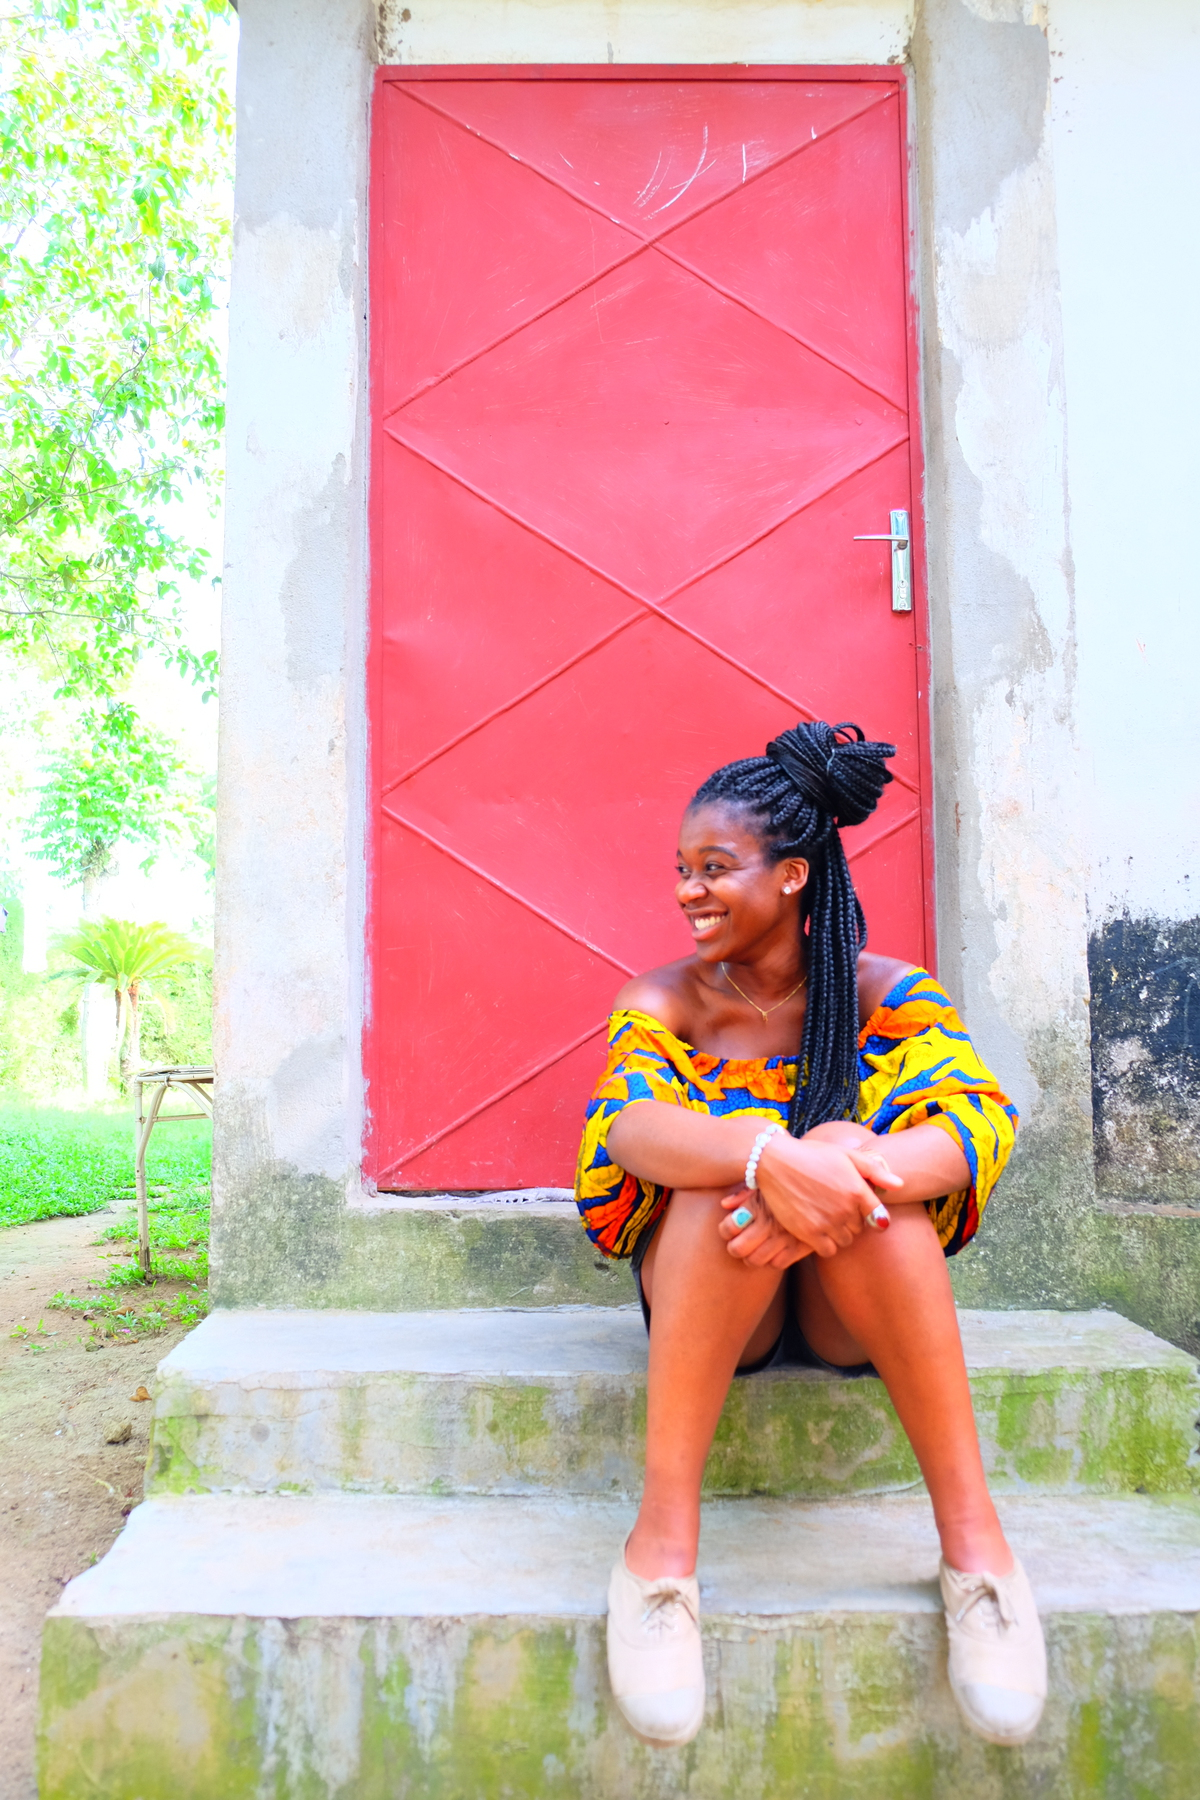
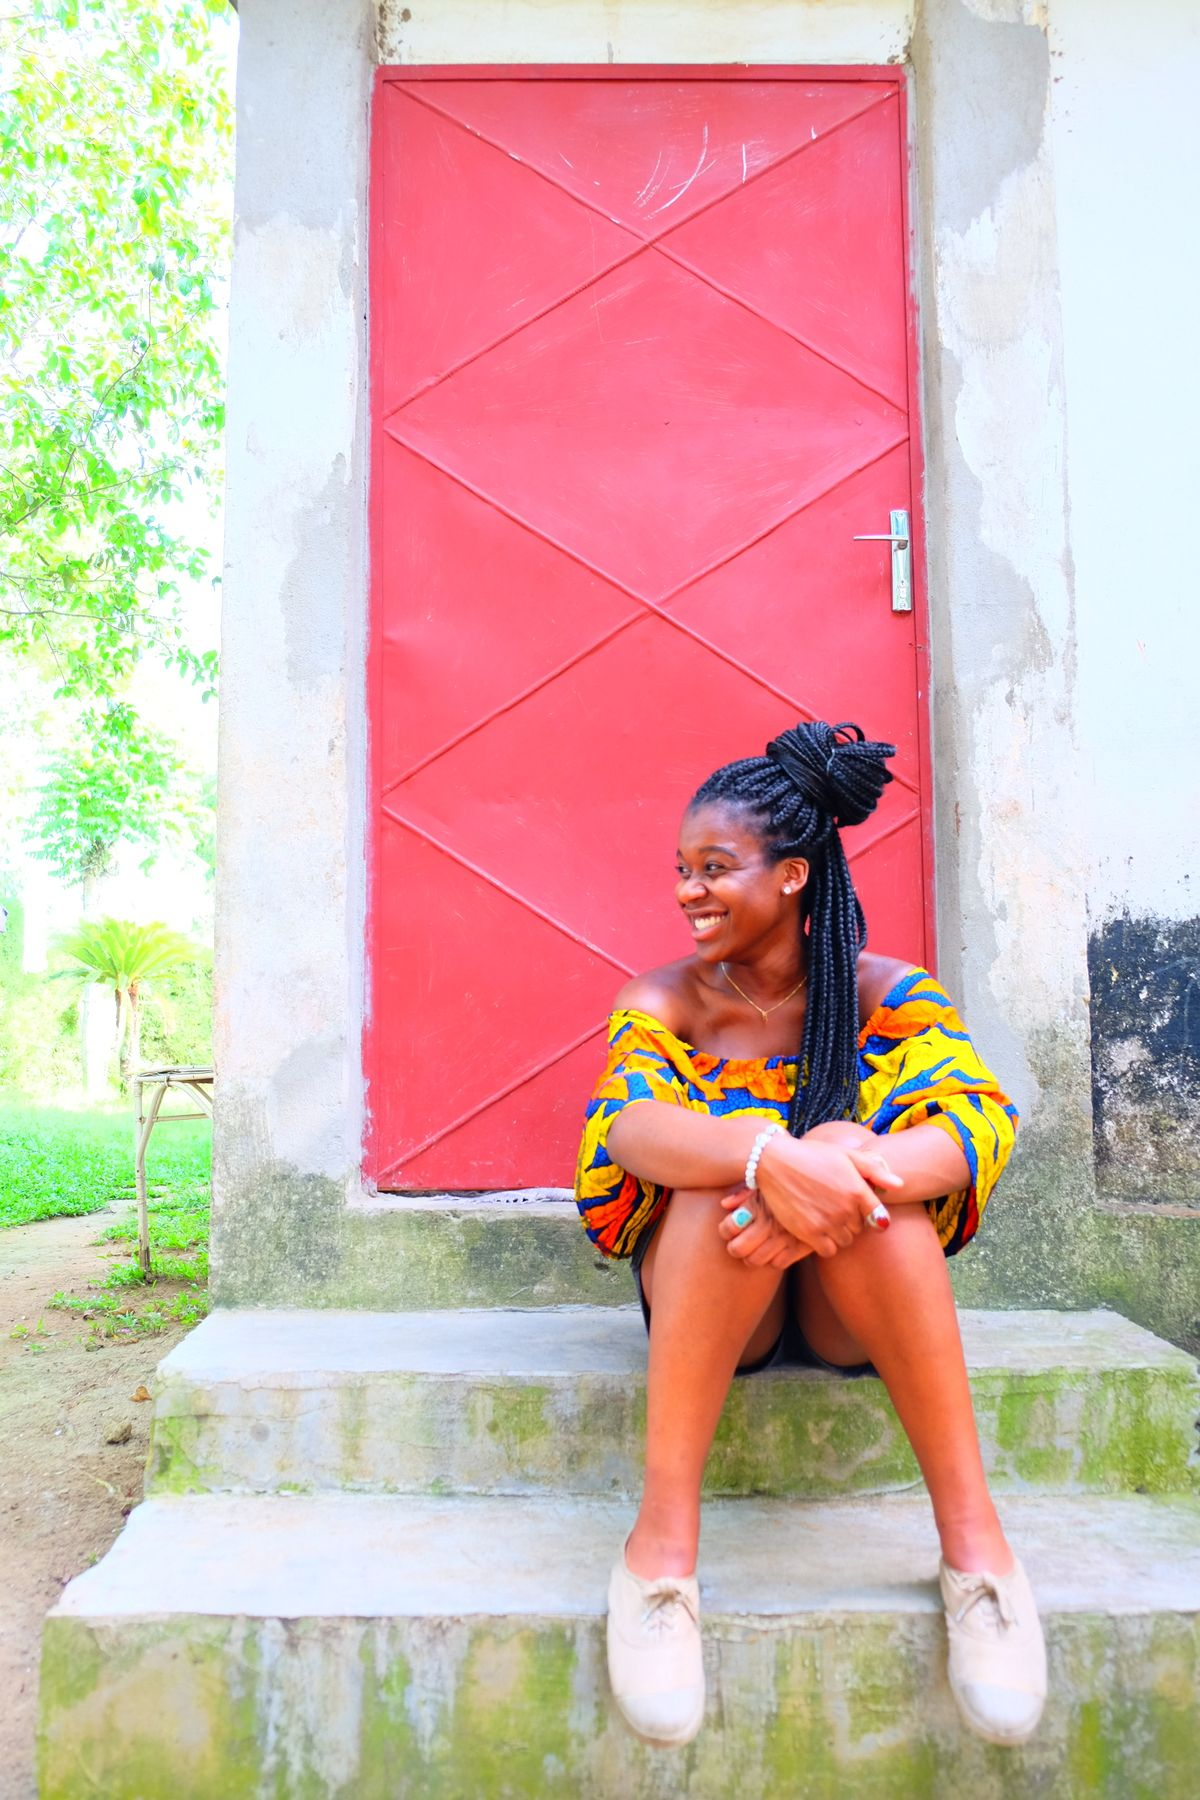
reduce imgs size

diff --git a/src/components/Articles/Article1/Article1.js b/src/components/Articles/Article1/Article1.js
@@ -5,7 +5,7 @@ import { Helmet } from 'react-helmet'
 
 import '../Article.scss'
 
-import dorisSrc from '../../../assets/images/doris.png'
+import dorisSrc from '../../../assets/images/doris.jpg'
 import doris2Src from '../../../assets/images/doris-2.jpg'
 import logoSrc from '../../../assets/images/logo-1.png'
 

diff --git a/src/components/OurEssence/OurEssence.js b/src/components/OurEssence/OurEssence.js
@@ -1,7 +1,7 @@
 import React from 'react'
 import { Container, Row, Col } from 'react-bootstrap'
 
-import ourEssenceSrc from '../../assets/images/notre_essence.jpeg'
+import ourEssenceSrc from '../../assets/images/notre_essence.jpg'
 import './OurEssence.scss'
 
 const OurEssence = () => {
